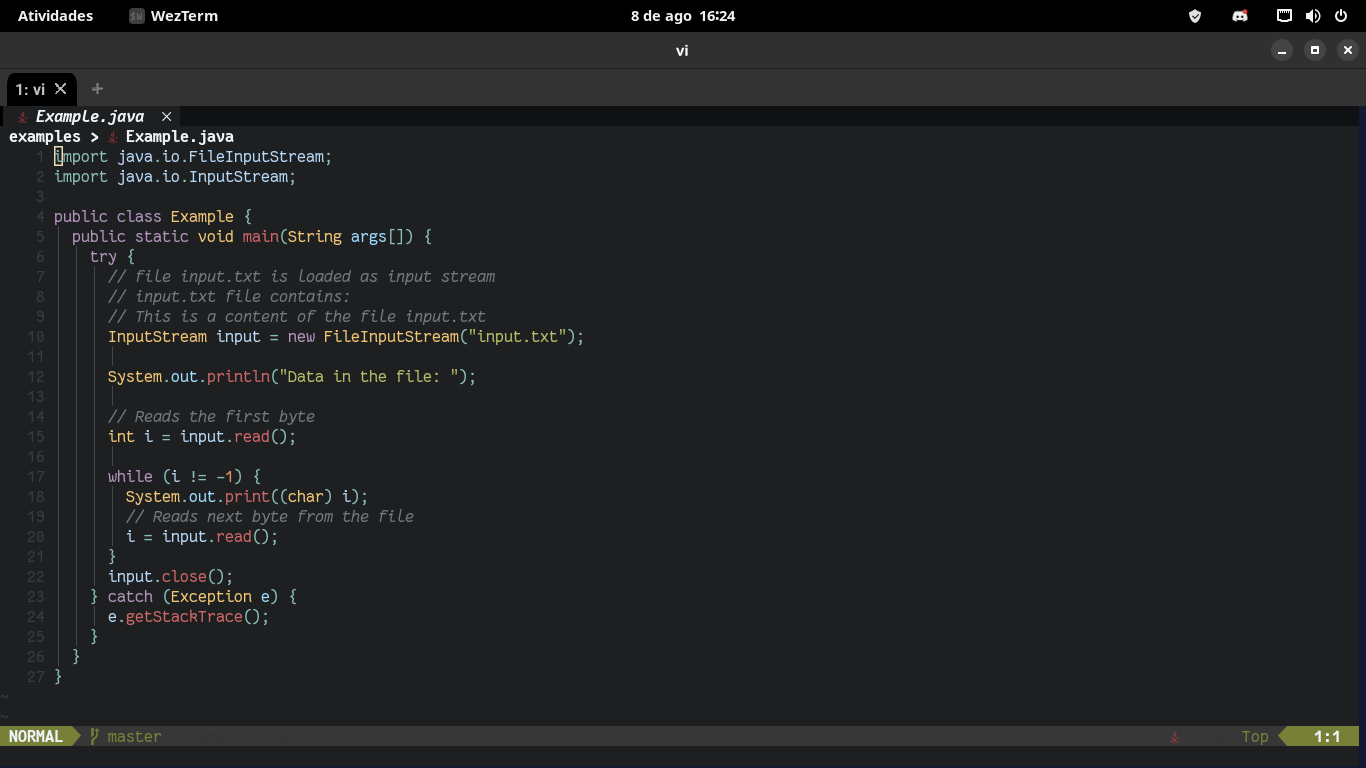
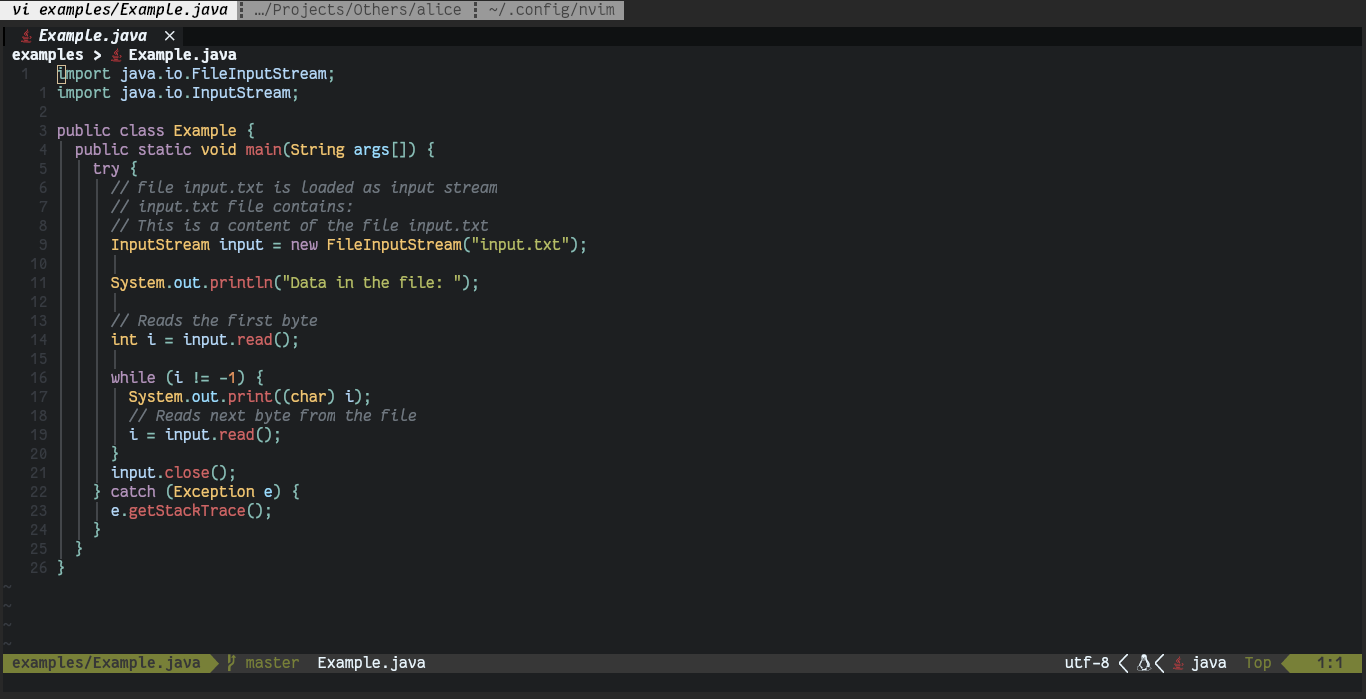
feat(docs): updating screenshots with new additions to Lualine

Changed region(s): [[0.0, 0.0, 1.0, 0.8112], [0.0, 0.9313, 1.0, 0.9914], [0.3382, 0.2403, 0.369, 0.2704]]

diff --git a/README.md b/README.md
@@ -29,7 +29,10 @@ Plug "HicaroD/alice.nvim"
 
 ![typescript](./screenshots/typescript.png)
 
-![flutter_dart](./screenshots/flutter_dart.png)
+![python](./screenshots/python.png)
+
+Terminal emulator: [Kitty](https://sw.kovidgoyal.net/kitty/)
+Font family: [Fantasque Sans Mono](https://github.com/belluzj/fantasque-sans)
 
 ## Thanks to
 
